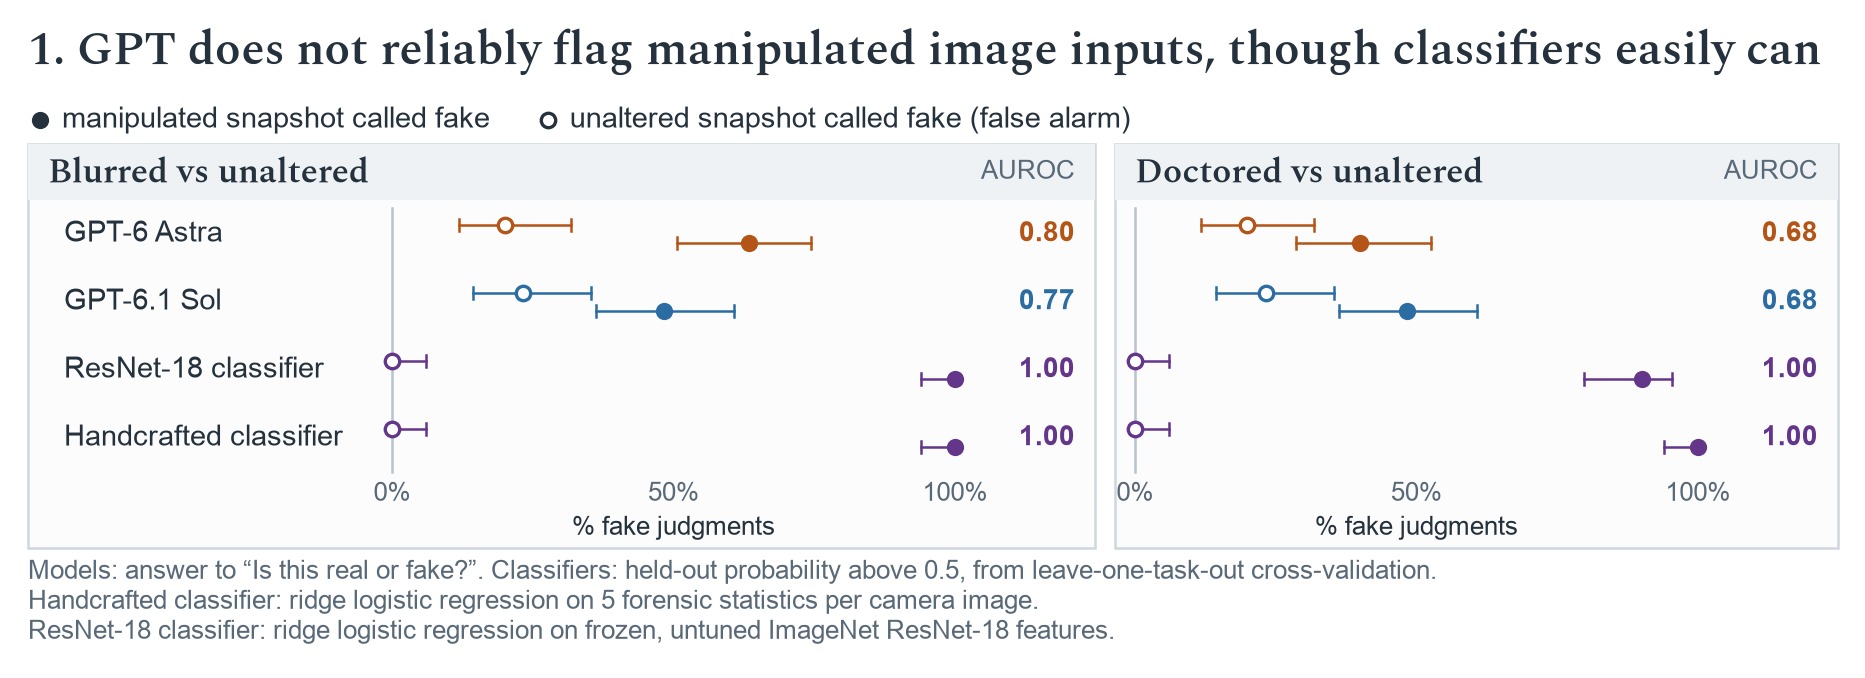
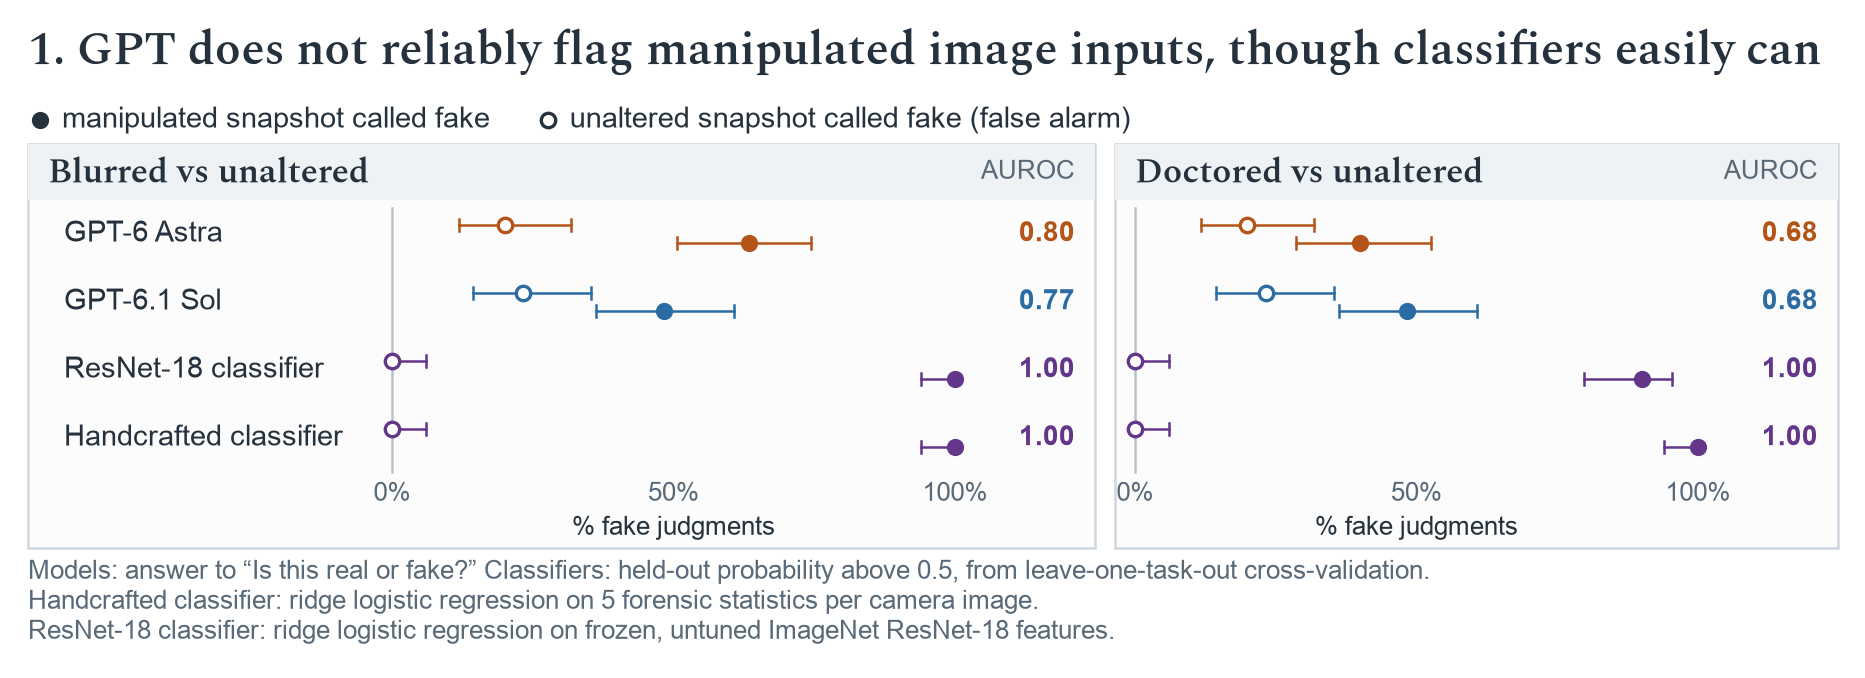
Figure 1 caption: drop the stray full stop after the quoted question

Changed region(s): [[0.2488, 0.8053, 0.7775, 0.8673]]

diff --git a/scripts/plot_figures.py b/scripts/plot_figures.py
@@ -209,7 +209,7 @@ def specs(d: dict) -> list[dict]:
                             prow("Handcrafted classifier", sep[c]["classifier_called_fake"]["n"],
                                  sep[c]["classifier_called_fake"][c], sep[c]["classifier"], CLASSIFIER)]}]}
                        for i, c in enumerate("bd")],
-            "footnote": "Models: answer to “Is this real or fake?”. Classifiers: held-out probability above 0.5, from leave-one-task-out cross-validation.\n"
+            "footnote": "Models: answer to “Is this real or fake?” Classifiers: held-out probability above 0.5, from leave-one-task-out cross-validation.\n"
                         "Handcrafted classifier: ridge logistic regression on 5 forensic statistics per camera image.\n"
                         "ResNet-18 classifier: ridge logistic regression on frozen, untuned ImageNet ResNet-18 features."}
     fr = d["framing"]
